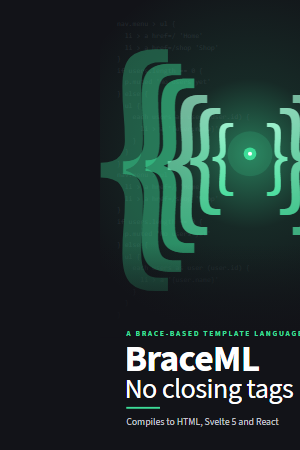
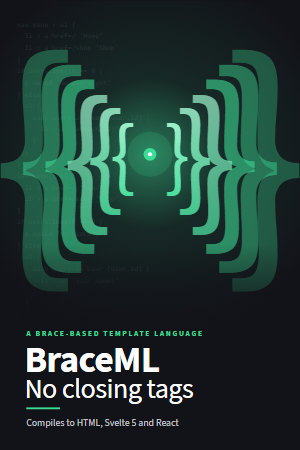
Fix cropped site covers; enlarge them and expand the CCDV-F descriptions
Headless Chrome has a minimum window width, so the 300px-wide renders
were taken from a wider page and cut the artwork off. The small covers
are now rendered at 600x900 and scaled down by half, which keeps the
whole cover. Covers on the book pages are 20% bigger, centred in their
column and framed with a hairline so their edges show on a dark page.
The three CCDV-F volume descriptions are about three times longer.
Image and stylesheet links carry a version so browsers fetch the fixes.

diff --git a/projects/ccdv-f-handbook/index.html b/projects/ccdv-f-handbook/index.html
@@ -7,7 +7,7 @@
 <script>try { document.querySelector('meta[name="color-scheme"]').content = localStorage.getItem('color-scheme') ?? 'light dark'; } catch {}</script>
 <title>CCDV-F Handbook · pavlovt</title>
 <meta name="description" content="A three-volume EPUB study handbook for the Claude Certified Developer – Foundations (CCDV-F) exam, with 1,007 practice questions.">
-<link rel="stylesheet" href="../../style.css?v=5">
+<link rel="stylesheet" href="../../style.css?v=6">
 <script src="../../theme.js" defer></script>
 </head>
 <body>
@@ -41,18 +41,18 @@
   <table class="book-list">
     <tbody>
       <tr>
-        <td class="cover"><a href="https://github.com/pavlovt/ccdv-f-handbook/releases/download/v1.1.0/CCDV-F_Study_Handbook.epub" tabindex="-1" aria-hidden="true"><img src="../../covers/ccdv-f-vol1.png" width="300" height="450" alt="" loading="lazy"></a></td>
-        <td class="about"><strong>A Study Handbook for the CCDV-F Exam</strong><span>12 chapters across the eight exam domains, chapter questions, a 53-question mock exam, answer keys, a glossary and resources</span></td>
+        <td class="cover"><a href="https://github.com/pavlovt/ccdv-f-handbook/releases/download/v1.1.0/CCDV-F_Study_Handbook.epub" tabindex="-1" aria-hidden="true"><img src="../../covers/ccdv-f-vol1.png?v=2" width="300" height="450" alt="" loading="lazy"></a></td>
+        <td class="about"><strong>A Study Handbook for the CCDV-F Exam</strong><span>The foundation volume, covering all eight exam domains in proportion to their weight. Twelve chapters run from how Claude handles tokens and the Messages API, through streaming, caching and batching, structured output, choosing a model, agents and workflows, prompt and context engineering, tools and MCP, and Claude Code, to security and evaluation. Each chapter ends with a checklist and practice questions, and the book closes with a 53-question mock exam, answer keys with explanations, a glossary and resources.</span></td>
         <td class="get"><a class="button secondary" href="https://github.com/pavlovt/ccdv-f-handbook/releases/download/v1.1.0/CCDV-F_Study_Handbook.epub">Download EPUB</a></td>
       </tr>
       <tr>
-        <td class="cover"><a href="https://github.com/pavlovt/ccdv-f-handbook/releases/download/v1.1.0/CCDV-F_Study_Handbook_Vol2.epub" tabindex="-1" aria-hidden="true"><img src="../../covers/ccdv-f-vol2.png" width="300" height="450" alt="" loading="lazy"></a></td>
-        <td class="about"><strong>Volume II: Depth in the Heavy Domains</strong><span>5 advanced chapters, a 60-question advanced mock exam and answer keys</span></td>
+        <td class="cover"><a href="https://github.com/pavlovt/ccdv-f-handbook/releases/download/v1.1.0/CCDV-F_Study_Handbook_Vol2.epub" tabindex="-1" aria-hidden="true"><img src="../../covers/ccdv-f-vol2.png?v=2" width="300" height="450" alt="" loading="lazy"></a></td>
+        <td class="about"><strong>Volume II: Depth in the Heavy Domains</strong><span>A deeper, harder volume on the three domains that make up nearly two-thirds of the exam: Applications and Integration, Model Selection and Optimization, and Agents and Workflows. Five chapters cover integration architecture in production, failure and recovery, the arithmetic of cost and performance, agent engineering with budgets and cancellation, and tool and MCP design. The questions are deliberately harder than the real exam, many needing a calculation, and the book ends with a 60-question advanced mock exam and answer keys.</span></td>
         <td class="get"><a class="button secondary" href="https://github.com/pavlovt/ccdv-f-handbook/releases/download/v1.1.0/CCDV-F_Study_Handbook_Vol2.epub">Download EPUB</a></td>
       </tr>
       <tr>
-        <td class="cover"><a href="https://github.com/pavlovt/ccdv-f-handbook/releases/download/v1.1.0/CCDV-F_Advanced_Mock_Exams.epub" tabindex="-1" aria-hidden="true"><img src="../../covers/ccdv-f-vol3.png" width="300" height="450" alt="" loading="lazy"></a></td>
-        <td class="about"><strong>Volume III: Twelve Advanced Mock Exams</strong><span>12 full-length exams of 53 questions each, answer keys and a guide to reading your results</span></td>
+        <td class="cover"><a href="https://github.com/pavlovt/ccdv-f-handbook/releases/download/v1.1.0/CCDV-F_Advanced_Mock_Exams.epub" tabindex="-1" aria-hidden="true"><img src="../../covers/ccdv-f-vol3.png?v=2" width="300" height="450" alt="" loading="lazy"></a></td>
+        <td class="about"><strong>Volume III: Twelve Advanced Mock Exams</strong><span>Pure practice: twelve full-length exams of 53 questions each, 636 questions in all, every one following the real exam's domain blueprint and 120-minute format. Each exam is set in a different world, from document processing and chat assistants to batch pipelines, code agents, regulated systems, commerce and retrieval, so you learn the engineering rather than the scenarios. Complete answer keys and a guide to reading your results show which domains to study next.</span></td>
         <td class="get"><a class="button secondary" href="https://github.com/pavlovt/ccdv-f-handbook/releases/download/v1.1.0/CCDV-F_Advanced_Mock_Exams.epub">Download EPUB</a></td>
       </tr>
     </tbody>

diff --git a/projects/compiled-books/index.html b/projects/compiled-books/index.html
@@ -7,7 +7,7 @@
 <script>try { document.querySelector('meta[name="color-scheme"]').content = localStorage.getItem('color-scheme') ?? 'light dark'; } catch {}</script>
 <title>Compiled Books · pavlovt</title>
 <meta name="description" content="In-depth EPUB books on Svelte 5, SvelteKit 3 and Astro 7, and a SvelteKit interview-prep course with interactive quizzes.">
-<link rel="stylesheet" href="../../style.css?v=5">
+<link rel="stylesheet" href="../../style.css?v=6">
 <script src="../../theme.js" defer></script>
 </head>
 <body>
@@ -42,27 +42,27 @@
   <table class="book-list">
     <tbody>
       <tr>
-        <td class="cover"><a href="https://github.com/pavlovt/compiled-books/releases/download/v1.2.0/Svelte-5-in-Depth.epub" tabindex="-1" aria-hidden="true"><img src="../../covers/svelte-5-in-depth.png" width="300" height="450" alt="" loading="lazy"></a></td>
+        <td class="cover"><a href="https://github.com/pavlovt/compiled-books/releases/download/v1.2.0/Svelte-5-in-Depth.epub" tabindex="-1" aria-hidden="true"><img src="../../covers/svelte-5-in-depth.png?v=2" width="300" height="450" alt="" loading="lazy"></a></td>
         <td class="about"><strong>Svelte 5 in Depth</strong><span>Runes, the compiler and reactivity internals</span></td>
         <td class="get"><a class="button secondary" href="https://github.com/pavlovt/compiled-books/releases/download/v1.2.0/Svelte-5-in-Depth.epub">Download EPUB</a></td>
       </tr>
       <tr>
-        <td class="cover"><a href="https://github.com/pavlovt/compiled-books/releases/download/v1.2.0/SvelteKit-3-in-Depth.epub" tabindex="-1" aria-hidden="true"><img src="../../covers/sveltekit-3-in-depth.png" width="300" height="450" alt="" loading="lazy"></a></td>
+        <td class="cover"><a href="https://github.com/pavlovt/compiled-books/releases/download/v1.2.0/SvelteKit-3-in-Depth.epub" tabindex="-1" aria-hidden="true"><img src="../../covers/sveltekit-3-in-depth.png?v=2" width="300" height="450" alt="" loading="lazy"></a></td>
         <td class="about"><strong>SvelteKit 3 in Depth</strong><span>Routing, data, remote functions and deployment</span></td>
         <td class="get"><a class="button secondary" href="https://github.com/pavlovt/compiled-books/releases/download/v1.2.0/SvelteKit-3-in-Depth.epub">Download EPUB</a></td>
       </tr>
       <tr>
-        <td class="cover"><a href="https://github.com/pavlovt/compiled-books/releases/download/v1.2.0/Astro-7-in-Depth-with-Svelte.epub" tabindex="-1" aria-hidden="true"><img src="../../covers/astro-7-in-depth.png" width="300" height="450" alt="" loading="lazy"></a></td>
+        <td class="cover"><a href="https://github.com/pavlovt/compiled-books/releases/download/v1.2.0/Astro-7-in-Depth-with-Svelte.epub" tabindex="-1" aria-hidden="true"><img src="../../covers/astro-7-in-depth.png?v=2" width="300" height="450" alt="" loading="lazy"></a></td>
         <td class="about"><strong>Astro 7 in Depth</strong><span>Islands, content and the server, with Svelte 5</span></td>
         <td class="get"><a class="button secondary" href="https://github.com/pavlovt/compiled-books/releases/download/v1.2.0/Astro-7-in-Depth-with-Svelte.epub">Download EPUB</a></td>
       </tr>
       <tr>
-        <td class="cover"><a href="https://github.com/pavlovt/compiled-books/releases/download/v1.2.0/SvelteKit-Interview-Prep.epub" tabindex="-1" aria-hidden="true"><img src="../../covers/sveltekit-interview-prep.png" width="300" height="450" alt="" loading="lazy"></a></td>
+        <td class="cover"><a href="https://github.com/pavlovt/compiled-books/releases/download/v1.2.0/SvelteKit-Interview-Prep.epub" tabindex="-1" aria-hidden="true"><img src="../../covers/sveltekit-interview-prep.png?v=2" width="300" height="450" alt="" loading="lazy"></a></td>
         <td class="about"><strong>SvelteKit Interview Prep</strong><span>A nine-day course in Svelte 5, SvelteKit 3 and testing, two hours a day</span></td>
         <td class="get"><a class="button secondary" href="https://github.com/pavlovt/compiled-books/releases/download/v1.2.0/SvelteKit-Interview-Prep.epub">Download EPUB</a></td>
       </tr>
       <tr>
-        <td class="cover"><a href="https://github.com/pavlovt/compiled-books/releases/download/v1.2.0/Living-Well-with-Type-2-Diabetes.epub" tabindex="-1" aria-hidden="true"><img src="../../covers/living-well-with-type-2-diabetes.png" width="300" height="450" alt="" loading="lazy"></a></td>
+        <td class="cover"><a href="https://github.com/pavlovt/compiled-books/releases/download/v1.2.0/Living-Well-with-Type-2-Diabetes.epub" tabindex="-1" aria-hidden="true"><img src="../../covers/living-well-with-type-2-diabetes.png?v=2" width="300" height="450" alt="" loading="lazy"></a></td>
         <td class="about"><strong>Living Well with Type 2 Diabetes</strong><span>A practical guide to the things that matter most</span></td>
         <td class="get"><a class="button secondary" href="https://github.com/pavlovt/compiled-books/releases/download/v1.2.0/Living-Well-with-Type-2-Diabetes.epub">Download EPUB</a></td>
       </tr>

diff --git a/index.html b/index.html
@@ -7,7 +7,7 @@
 <script>try { document.querySelector('meta[name="color-scheme"]').content = localStorage.getItem('color-scheme') ?? 'light dark'; } catch {}</script>
 <title>pavlovt · Projects</title>
 <meta name="description" content="Projects by pavlovt: the CCDV-F study handbook, compiled technical books on Svelte, SvelteKit and Astro, and the BraceML template language.">
-<link rel="stylesheet" href="style.css?v=5">
+<link rel="stylesheet" href="style.css?v=6">
 <script src="theme.js" defer></script>
 </head>
 <body>
@@ -34,7 +34,7 @@
 
   <div class="cards">
     <article class="card">
-      <a class="covers" href="projects/ccdv-f-handbook/" tabindex="-1" aria-hidden="true"><img src="covers/ccdv-f-vol1.png" width="300" height="450" alt=""><img src="covers/ccdv-f-vol2.png" width="300" height="450" alt=""><img src="covers/ccdv-f-vol3.png" width="300" height="450" alt=""></a>
+      <a class="covers" href="projects/ccdv-f-handbook/" tabindex="-1" aria-hidden="true"><img src="covers/ccdv-f-vol1.png?v=2" width="300" height="450" alt=""><img src="covers/ccdv-f-vol2.png?v=2" width="300" height="450" alt=""><img src="covers/ccdv-f-vol3.png?v=2" width="300" height="450" alt=""></a>
       <span class="tag">Study handbook · EPUB</span>
       <h2>CCDV-F Handbook</h2>
       <p>A three-volume study handbook for the Claude Certified Developer – Foundations exam, with 1,007 practice questions and answer keys.</p>
@@ -45,7 +45,7 @@
     </article>
 
     <article class="card">
-      <a class="covers" href="projects/compiled-books/" tabindex="-1" aria-hidden="true"><img src="covers/svelte-5-in-depth.png" width="300" height="450" alt=""><img src="covers/sveltekit-3-in-depth.png" width="300" height="450" alt=""><img src="covers/astro-7-in-depth.png" width="300" height="450" alt=""><img src="covers/sveltekit-interview-prep.png" width="300" height="450" alt=""><img src="covers/living-well-with-type-2-diabetes.png" width="300" height="450" alt=""></a>
+      <a class="covers" href="projects/compiled-books/" tabindex="-1" aria-hidden="true"><img src="covers/svelte-5-in-depth.png?v=2" width="300" height="450" alt=""><img src="covers/sveltekit-3-in-depth.png?v=2" width="300" height="450" alt=""><img src="covers/astro-7-in-depth.png?v=2" width="300" height="450" alt=""><img src="covers/sveltekit-interview-prep.png?v=2" width="300" height="450" alt=""><img src="covers/living-well-with-type-2-diabetes.png?v=2" width="300" height="450" alt=""></a>
       <span class="tag">Technical books · EPUB</span>
       <h2>Compiled Books</h2>
       <p>In-depth books on Svelte 5, SvelteKit 3 and Astro 7, a SvelteKit interview-prep course with interactive quizzes, and more.</p>
@@ -56,7 +56,7 @@
     </article>
 
     <article class="card">
-      <a class="covers" href="projects/braceml/" tabindex="-1" aria-hidden="true"><img src="covers/braceml.png" width="300" height="450" alt=""></a>
+      <a class="covers" href="projects/braceml/" tabindex="-1" aria-hidden="true"><img src="covers/braceml.png?v=2" width="300" height="450" alt=""></a>
       <span class="tag">Template language · npm</span>
       <h2>BraceML</h2>
       <p>HTML templates without the boilerplate. A brace-based template language that compiles to HTML, Svelte 5 and React.</p>

diff --git a/style.css b/style.css
@@ -213,10 +213,11 @@ ul.features li { margin-bottom: 0.3rem; }
 /* book list: one book per row, cover | description | download */
 .book-list { width: 100%; border-collapse: collapse; margin-top: 0.5rem; }
 .book-list td { border: 0; padding: 0.9rem 1.5rem 0.9rem 0; vertical-align: middle; }
-.book-list td.cover { width: 5.5rem; }
+.book-list td.cover { width: 6.6rem; text-align: center; }
 .book-list img {
   display: block;
-  width: 5.5rem;
+  width: 6.6rem;
+  margin-inline: auto;
   height: auto;
   aspect-ratio: 2 / 3;
   border-radius: 4px;
@@ -231,7 +232,7 @@ ul.features li { margin-bottom: 0.3rem; }
 }
 @media (width < 40rem) {
   .book-list td { padding-right: 0.75rem; font-size: 0.92rem; }
-  .book-list td.cover, .book-list img { width: 3.75rem; }
+  .book-list td.cover, .book-list img { width: 4.5rem; }
   .book-list td.get { white-space: normal; }
   .book-list td.get .button { padding: 0.4rem 0.6rem; font-size: 0.85rem; text-align: center; }
 }
@@ -261,4 +262,10 @@ ul.features li { margin-bottom: 0.3rem; }
 @media (width < 40rem) {
   .hero { flex-direction: column-reverse; gap: 1.25rem; }
   .hero-cover { width: 6rem; }
+}
+
+/* covers are dark, so a hairline frame shows their full shape on a dark page */
+.book-list img, .card .covers img, .hero-cover {
+  outline: 1px solid light-dark(rgb(0 0 0 / 0.08), rgb(255 255 255 / 0.16));
+  outline-offset: -1px;
 }

diff --git a/projects/braceml/index.html b/projects/braceml/index.html
@@ -7,7 +7,7 @@
 <script>try { document.querySelector('meta[name="color-scheme"]').content = localStorage.getItem('color-scheme') ?? 'light dark'; } catch {}</script>
 <title>BraceML · pavlovt</title>
 <meta name="description" content="BraceML is a brace-based HTML template language that compiles to HTML, Svelte 5 and React. Includes an online HTML to BraceML converter.">
-<link rel="stylesheet" href="../../style.css?v=5">
+<link rel="stylesheet" href="../../style.css?v=6">
 <script src="../../theme.js" defer></script>
 </head>
 <body>
@@ -40,7 +40,7 @@
       <a class="button secondary" href="https://github.com/pavlovt/braceml/blob/main/docs/language.md">Language guide</a>
     </div>
     </div>
-    <img class="hero-cover" src="../../covers/braceml.png" width="300" height="450" alt="">
+    <img class="hero-cover" src="../../covers/braceml.png?v=2" width="300" height="450" alt="">
   </div>
 
   <h2>No closing tags</h2>

diff --git a/covers/make_covers.py b/covers/make_covers.py
@@ -285,9 +285,11 @@ def build():
             art, glow = art_fn(accent)
             page = Path(tmp) / f"{name}.html"
             page.write_text(cover(art, accent, glow, label, l1, l2, sub, **extra), encoding="utf-8")
-            for out, size in ((HERE / f"{name}.png", "300,450"), (full / f"{name}.png", "1600,2400")):
+            # Headless Chrome has a minimum window width, so a 300px window would crop the
+            # cover; the small one is rendered at 600x900 and scaled down by half instead.
+            for out, size, scale in ((HERE / f"{name}.png", "600,900", "0.5"), (full / f"{name}.png", "1600,2400", "1")):
                 subprocess.run([str(CHROME), "--headless=new", "--disable-gpu", "--hide-scrollbars",
-                                "--allow-file-access-from-files", "--force-device-scale-factor=1",
+                                "--allow-file-access-from-files", f"--force-device-scale-factor={scale}",
                                 f"--window-size={size}", "--virtual-time-budget=3000",
                                 f"--screenshot={out}", page.as_uri()],
                                check=True, capture_output=True)
